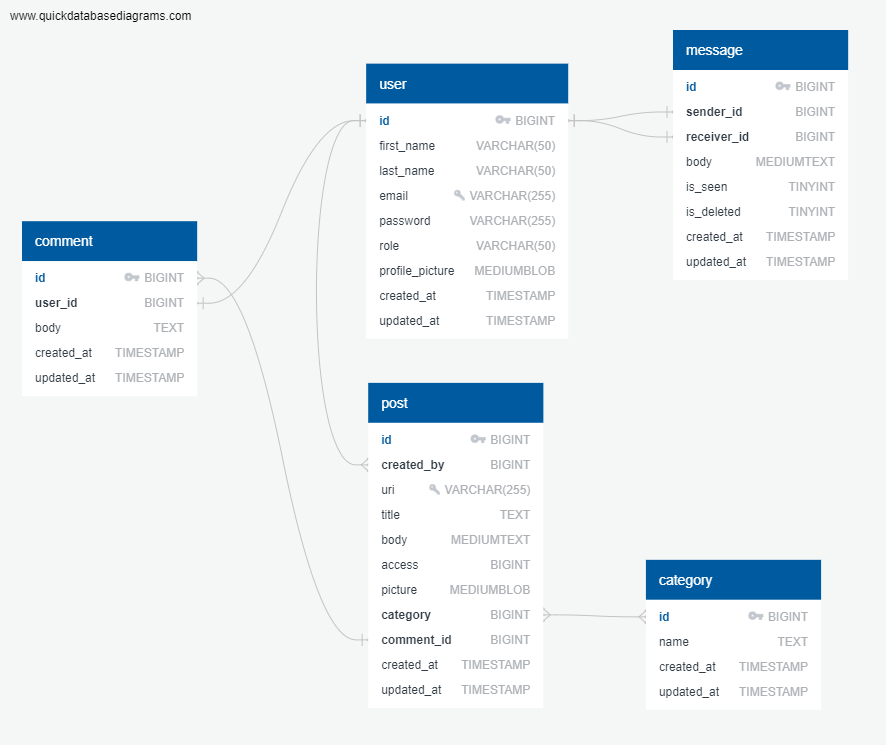
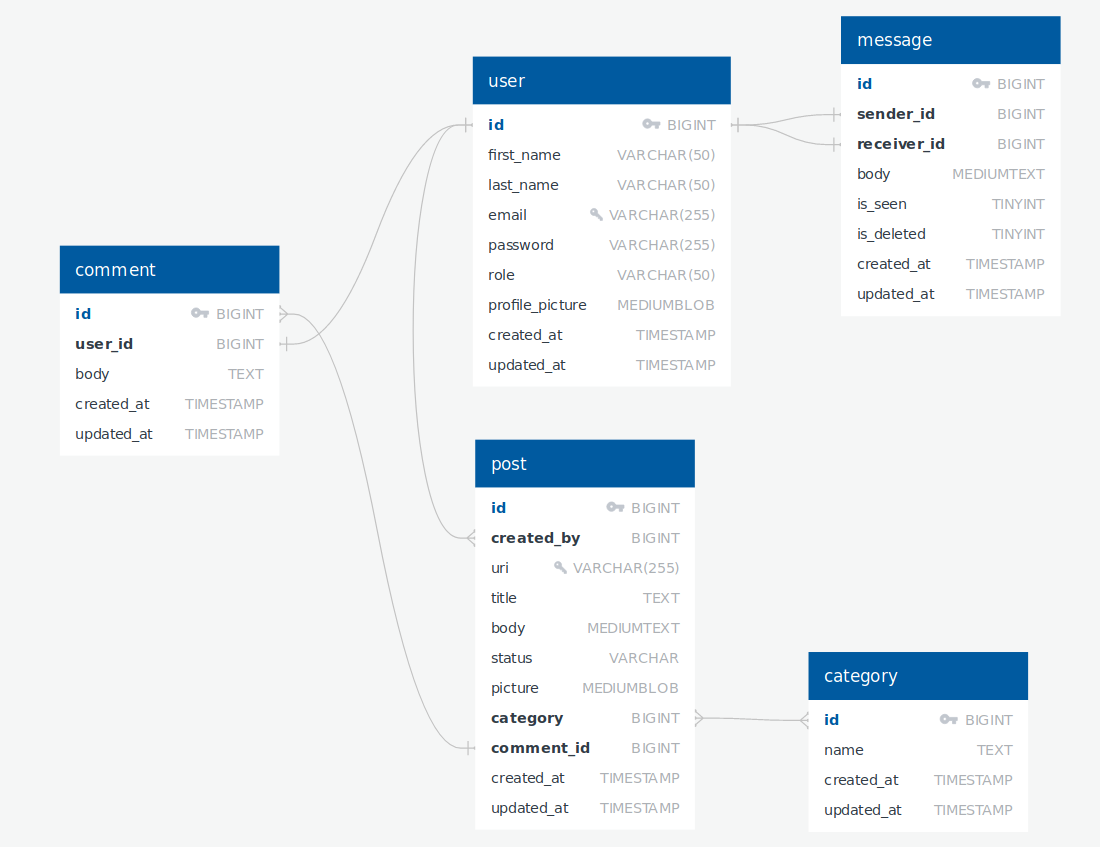
Added status column in db

diff --git a/src/main/java/net/therap/blog/domain/Post.java b/src/main/java/net/therap/blog/domain/Post.java
@@ -13,7 +13,6 @@ import java.time.format.DateTimeFormatter;
 import java.util.ArrayList;
 import java.util.Base64;
 import java.util.List;
-import java.util.Map;
 
 /**
  * @author sajjad.ahmed
@@ -57,7 +56,8 @@ public class Post extends BaseDomain implements Serializable {
     private String body;
 
     @Column(nullable = false)
-    private long access;
+    @Enumerated(EnumType.STRING)
+    private STATUS status;
 
     @Lob
     @Column(nullable = false, columnDefinition = "mediumblob")
@@ -117,12 +117,16 @@ public class Post extends BaseDomain implements Serializable {
         this.body = body;
     }
 
-    public long getAccess() {
-        return access;
+    public STATUS getStatus() {
+        return status;
     }
 
-    public void setAccess(long access) {
-        this.access = access;
+    public void setStatus(STATUS status) {
+        this.status = status;
+    }
+
+    public String getStatusVal() {
+        return status.val;
     }
 
     public byte[] getPicture() {
@@ -149,16 +153,6 @@ public class Post extends BaseDomain implements Serializable {
         this.comments = comments;
     }
 
-    public String getStatus() {
-        Map<String, Long> map = STATUS.getMap();
-        String status = map.keySet()
-                .stream()
-                .filter(key -> this.access == map.get(key))
-                .findFirst().get();
-        status = status.replace("_", " ");
-        return status;
-    }
-
     public String getFormattedDate() {
         LocalDateTime localDateTime = LocalDateTime.ofInstant(getCreatedAt().toInstant(), ZoneId.systemDefault());
         return localDateTime.format(DateTimeFormatter.ISO_LOCAL_DATE);
@@ -180,7 +174,7 @@ public class Post extends BaseDomain implements Serializable {
                 ", uri='" + uri + '\'' +
                 ", title='" + title + '\'' +
                 ", body='" + body + '\'' +
-                ", access=" + access +
+                ", access=" + status +
                 ", categories=" + categories +
                 ", comments=" + comments +
                 ", createdAt=" + getCreatedAt() +

diff --git a/src/main/java/net/therap/blog/web/controller/CategoryController.java b/src/main/java/net/therap/blog/web/controller/CategoryController.java
@@ -45,14 +45,15 @@ public class CategoryController implements Constants {
     }
 
     @RequestMapping(value = CATEGORY_ADD, method = RequestMethod.GET)
-    public String addCategoryView(
-            Model model,
-            HttpSession session) {
+    public String addCategoryView(@ModelAttribute Category category,
+                                  Model model,
+                                  HttpSession session) {
         String userRole = SessionUtil.getUserRole(session);
         if (!userRole.equals(ROLES.ADMIN.name())) {
             return ACCESS_ERROR_VIEW;
         }
-        model.addAttribute("category", new Category());
+        category = category.isNew() ? category : categoryDao.find(category.getId());
+        model.addAttribute("category", category);
         return CATEGORY_ADD_VIEW;
     }
 
@@ -70,27 +71,9 @@ public class CategoryController implements Constants {
             model.addAttribute("category", category);
             return CATEGORY_ADD_VIEW;
         }
-        if (category.getId() == 0) {
-            redirectAttributes.addFlashAttribute(CONFIRMATION, "ADDED");
-        } else {
-            redirectAttributes.addFlashAttribute(CONFIRMATION, "UPDATED");
-        }
+        redirectAttributes.addFlashAttribute(CONFIRMATION, category.isNew() ? "ADDED" : "UPDATED");
         categoryDao.save(category);
         return "redirect:" + CATEGORY_MANAGE;
-    }
-
-    @RequestMapping(value = CATEGORY_UPDATE, method = RequestMethod.GET)
-    public String updateCategoryHandler(@ModelAttribute Category category,
-                                        Model model,
-                                        HttpSession session) {
-        String userRole = SessionUtil.getUserRole(session);
-        if (!userRole.equals(ROLES.ADMIN.name())) {
-            return ACCESS_ERROR_VIEW;
-        }
-        long id = category.getId();
-        category = categoryDao.find(id);
-        model.addAttribute("category", category);
-        return CATEGORY_ADD_VIEW;
     }
 
     @RequestMapping(value = CATEGORY_DELETE, method = RequestMethod.POST)

diff --git a/src/main/java/net/therap/blog/interceptor/ExceptionHandlerInterceptor.java b/src/main/java/net/therap/blog/interceptor/ExceptionHandlerInterceptor.java
@@ -1,0 +1,27 @@
+package net.therap.blog.interceptor;
+
+import net.therap.blog.util.Constants;
+import org.springframework.lang.Nullable;
+import org.springframework.web.servlet.ModelAndView;
+import org.springframework.web.servlet.handler.HandlerInterceptorAdapter;
+
+import javax.servlet.http.HttpServletRequest;
+import javax.servlet.http.HttpServletResponse;
+
+/**
+ * @author sajjad.ahmed
+ * @since 10/22/19.
+ */
+public class ExceptionHandlerInterceptor extends HandlerInterceptorAdapter {
+    @Override
+    public boolean preHandle(HttpServletRequest request, HttpServletResponse response, Object handler) throws Exception {
+        System.out.println(Constants.LOG + "before");
+        return super.preHandle(request, response, handler);
+    }
+
+    @Override
+    public void postHandle(HttpServletRequest request, HttpServletResponse response, Object handler, @Nullable ModelAndView modelAndView) throws Exception {
+        System.out.println(Constants.LOG + "AFTER");
+        super.postHandle(request, response, handler, modelAndView);
+    }
+}

diff --git a/src/main/java/net/therap/blog/util/SessionUtil.java b/src/main/java/net/therap/blog/util/SessionUtil.java
@@ -27,14 +27,13 @@ public class SessionUtil implements Constants {
         if (userRole.equals(ROLES.ADMIN.name())) {
             return posts;
         } else if (userRole.equals(ROLES.AUTHOR.name())) {
-            posts.removeIf(i ->
-                    String.valueOf(i.getAccess()).charAt(0) == ACCESS_DENY);
+            posts.removeIf(i -> i.getStatus().name().equals("RESTRICT_AUTHOR"));
         } else if (userRole.equals(ROLES.SUBSCRIBER.name())) {
-            posts.removeIf(i ->
-                    String.valueOf(i.getAccess()).charAt(1) == ACCESS_DENY);
+            posts.removeIf(i -> i.getStatus().name().equals("DRAFT"));
         } else if (userRole.equals(ACCESS_GUEST)) {
-            posts.removeIf(i ->
-                    String.valueOf(i.getAccess()).charAt(2) == ACCESS_DENY);
+            posts.removeIf(i -> i.getStatus().name().equals("SUBSCRIBER_ONLY")
+                    || i.getStatus().name().equals("DRAFT"));
+
         }
         return posts;
     }

diff --git a/src/main/java/net/therap/blog/web/validator/PostValidator.java b/src/main/java/net/therap/blog/web/validator/PostValidator.java
@@ -29,18 +29,10 @@ public class PostValidator implements Validator {
     public void validate(Object target, Errors errors) {
         Post post = (Post) target;
         String value = post.getUri();
-        if (post.getId() == 0) {
+        if (post.isNew()) {
             if (Objects.nonNull(value) && postService.isUriAlreadyInUse(value)) {
                 errors.rejectValue("uri", "validator.duplicate.uri", "URI already exists");
             }
-        }
-        String access = String.valueOf(post.getAccess());
-        String regexp = "^[1-7]{3}$";
-        Pattern pattern = Pattern.compile(regexp);
-        Matcher matcher = pattern.matcher(access);
-        if (!matcher.matches()) {
-            errors.rejectValue("access", "validator.post.access.error", "Must be a 3 digit number containing only 1 or 7");
-
         }
     }
 }

diff --git a/src/main/java/net/therap/blog/util/STATUS.java b/src/main/java/net/therap/blog/util/STATUS.java
@@ -8,21 +8,21 @@ import java.util.Map;
  * @since 10/13/19.
  */
 public enum STATUS {
-    PUBLIC(777),
-    SUBSCRIBER_ONLY(771),
-    DRAFT(711),
-    RESTRICT_AUTHOR(111);
+    PUBLIC("Public"),
+    SUBSCRIBER_ONLY("Subscriber only"),
+    DRAFT("Draft"),
+    RESTRICT_AUTHOR("Restrict author");
 
-    public long val;
+    public String val;
 
-    STATUS(long val) {
+    STATUS(String val) {
         this.val = val;
     }
 
-    public static Map<String,Long> getMap() {
-        Map<String, Long> statusMap = new HashMap<>();
+    public static Map<String, String> getMap() {
+        Map<String, String> statusMap = new HashMap<>();
         for (STATUS status : STATUS.values()) {
-            statusMap.put(status.name(),status.val);
+            statusMap.put(status.name(), status.val);
         }
         return statusMap;
     }

diff --git a/src/main/java/net/therap/blog/web/filter/AuthenticationFilter.java b/src/main/java/net/therap/blog/web/filter/AuthenticationFilter.java
@@ -18,12 +18,11 @@ import java.util.Objects;
 @WebFilter("/AuthenticationFilter")
 public class AuthenticationFilter implements Filter {
 
-    private FilterConfig config;
-
-    public void init(FilterConfig config) throws ServletException {
-        this.config = config;
+    @Override
+    public void init(FilterConfig filterConfig) throws ServletException {
     }
 
+    @Override
     public void doFilter(ServletRequest request, ServletResponse response, FilterChain chain)
             throws ServletException, IOException {
 
@@ -48,6 +47,7 @@ public class AuthenticationFilter implements Filter {
         }
     }
 
+    @Override
     public void destroy() {
     }
 }

diff --git a/src/main/java/net/therap/blog/web/filter/NoCacheFilter.java b/src/main/java/net/therap/blog/web/filter/NoCacheFilter.java
@@ -25,6 +25,5 @@ public class NoCacheFilter implements Filter {
 
     @Override
     public void destroy() {
-
     }
 }
